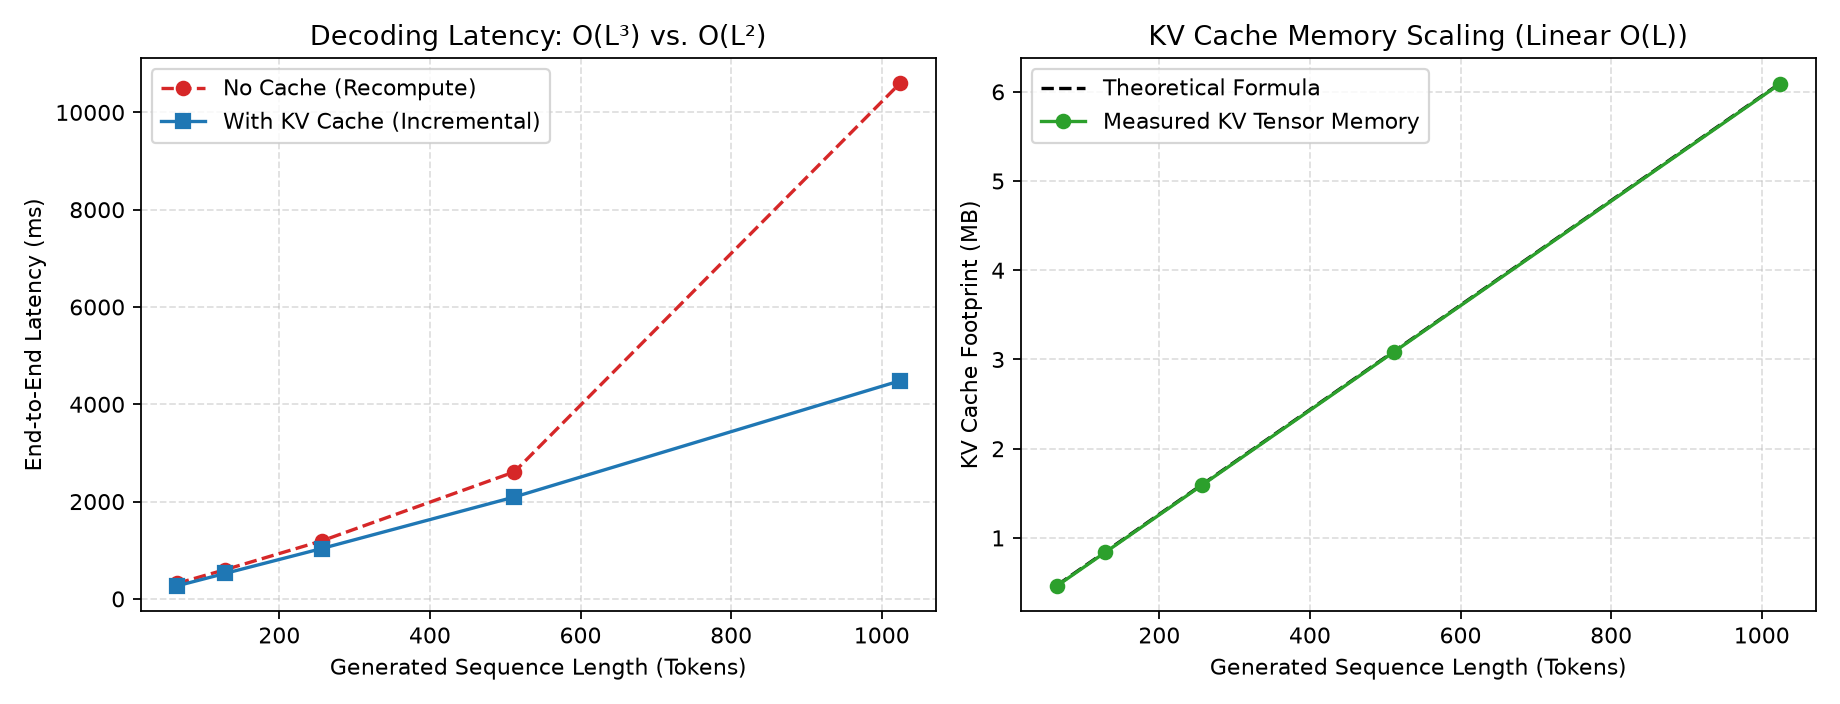
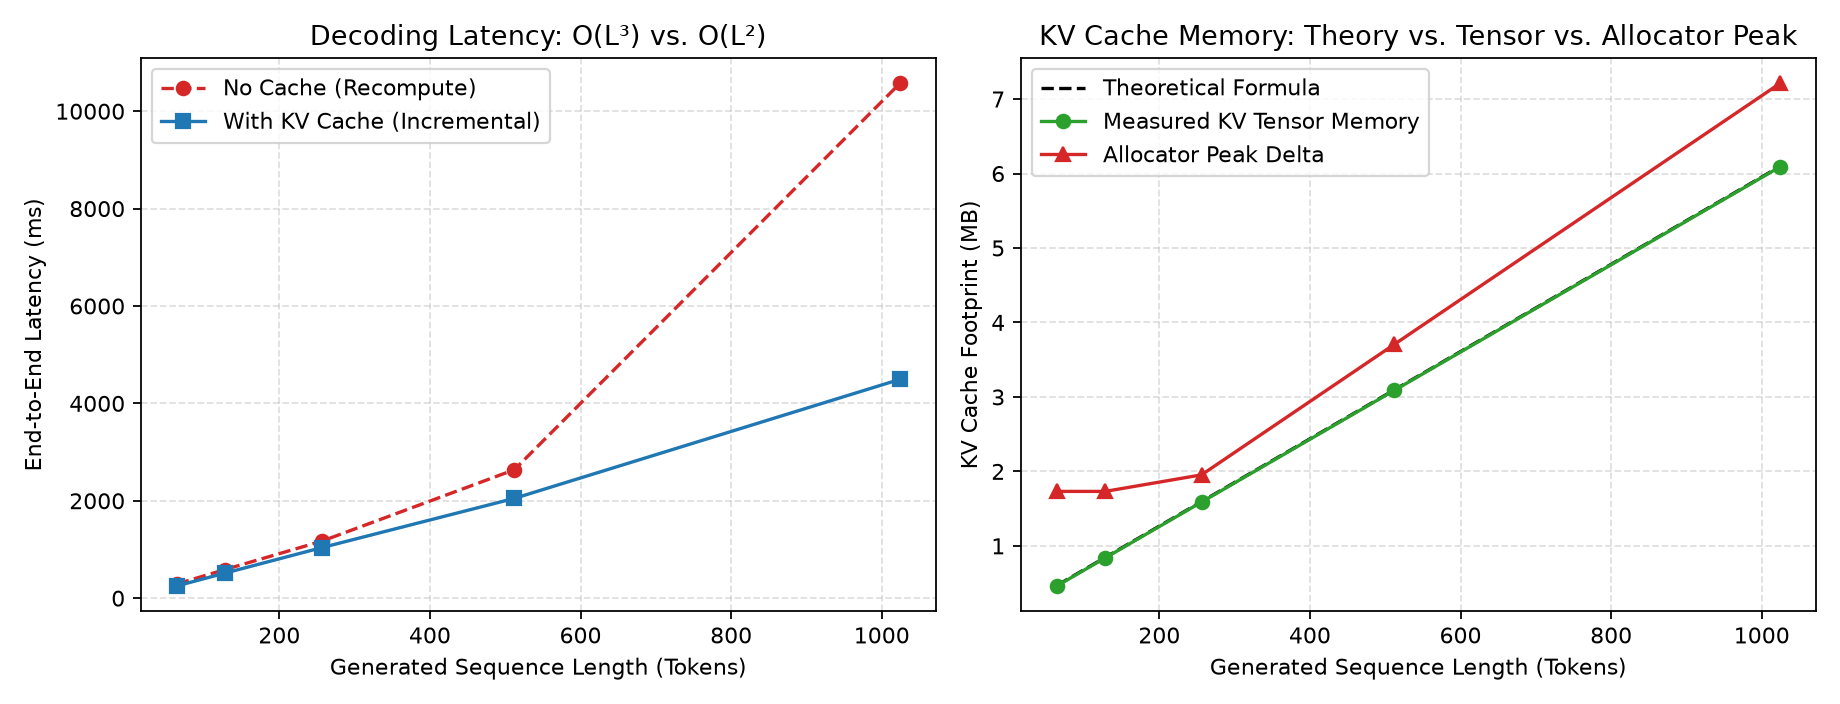
feat(profiling): 实测 KV Cache 峰值显存（max_memory_allocated）
- 每个序列长度前 empty_cache + reset_peak_memory_stats，扣除 67.8MB 基线
- 新增分配器峰值增量列与曲线：7.21MB @L=1024，约为张量的 1.18x
- 验证峰值增量符合 1+1/num_layers（仅当前层 cat 时新旧块共存）
- 释放 ckpt 引用，避免 fp32 权重副本污染显存基线

diff --git a/assignments/assignment1-basics/profile_kvcache.py b/assignments/assignment1-basics/profile_kvcache.py
@@ -38,6 +38,7 @@ def main() -> None:
         config["context_length"] = max(config.get("context_length", 1024), 1088)
         model = TransformerLM(**config, device=device, dtype=dtype)
         model.load_state_dict(ckpt["model_state_dict"])
+        del ckpt  # 释放 fp32 权重副本，避免污染后续显存基线
     else:
         config = dict(
             vocab_size=50257,
@@ -73,6 +74,8 @@ def main() -> None:
     for _ in range(3):
         _ = model.generate(prompt, max_new_tokens=16, use_cache=True)
     sync_device(device)
+    if device == "cuda":
+        print(f"  -> 权重与 prompt 基线占用: {torch.cuda.memory_allocated() / (1024**2):.1f} MB")
 
     print("\n[Step 2] 开始运行序列长度扩展 Benchmark...")
     for L in gen_lengths:
@@ -86,7 +89,11 @@ def main() -> None:
 
         # 测 KV Cache 增量模式 (O(L) 线性复杂度)
         if device == "cuda":
-            torch.cuda.reset_peak_memory_stats()
+            torch.cuda.synchronize()
+            torch.cuda.empty_cache()  # 清空缓存池，隔离上一个 L 留下的碎片
+            base_alloc_mb = torch.cuda.memory_allocated() / (1024**2)
+            base_reserved_mb = torch.cuda.memory_reserved() / (1024**2)
+            torch.cuda.reset_peak_memory_stats()  # 峰值计数器从当前水位重新起算
         sync_device(device)
         t0 = time.perf_counter()
         _, kv_cache = model.generate(
@@ -94,11 +101,18 @@ def main() -> None:
         )
         sync_device(device)
         cache_ms = (time.perf_counter() - t0) * 1000.0
+        if device == "cuda":
+            peak_alloc_mb = torch.cuda.max_memory_allocated() / (1024**2)
+            peak_reserved_mb = torch.cuda.max_memory_reserved() / (1024**2)
+            steady_alloc_mb = torch.cuda.memory_allocated() / (1024**2)
+        else:
+            base_alloc_mb = base_reserved_mb = peak_alloc_mb = peak_reserved_mb = steady_alloc_mb = 0.0
         cache_tps = L / (cache_ms / 1000.0)
         speedup = no_cache_ms / cache_ms
 
         total_seq = prompt_len + L
         measured_kv_mb = kv_cache.memory_bytes() / (1024**2)
+        del kv_cache  # 释放引用，避免上一个 L 的缓存污染下一轮的基线
         bytes_per_elem = 2 if dtype == torch.float16 else 4
         theory_kv_mb = theoretical_kv_cache_mb(
             batch_size=1,
@@ -119,6 +133,12 @@ def main() -> None:
                 speedup=speedup,
                 measured_kv_mb=measured_kv_mb,
                 theory_kv_mb=theory_kv_mb,
+                base_alloc_mb=base_alloc_mb,
+                peak_alloc_mb=peak_alloc_mb,
+                peak_reserved_mb=peak_reserved_mb,
+                peak_kv_delta_mb=peak_alloc_mb - base_alloc_mb,
+                peak_reserved_delta_mb=peak_reserved_mb - base_reserved_mb,
+                steady_kv_delta_mb=steady_alloc_mb - base_alloc_mb,
             )
         )
 
@@ -126,14 +146,16 @@ def main() -> None:
     print("\n### KV Cache 推理加速与显存剖析实验表\n")
     print(
         "| 生成长度 $L$ | 无缓存耗时 (ms) | KV Cache 耗时 (ms) | 无缓存吞吐 (tok/s) "
-        "| KV Cache 吞吐 (tok/s) | 加速比 | KV Cache 显存实测 / 理论 (MB) |"
+        "| KV Cache 吞吐 (tok/s) | 加速比 | 张量口径 / 理论 (MB) "
+        "| 分配器峰值增量 (MB) |"
     )
-    print("| :---: | :---: | :---: | :---: | :---: | :---: | :---: |")
+    print("| :---: | :---: | :---: | :---: | :---: | :---: | :---: | :---: |")
     for r in results:
         print(
             f"| {r['L']} | {r['no_cache_ms']:.1f} | {r['cache_ms']:.1f} "
             f"| {r['no_cache_tps']:.1f} | {r['cache_tps']:.1f} "
-            f"| **{r['speedup']:.2f}x** | {r['measured_kv_mb']:.2f} / {r['theory_kv_mb']:.2f} |"
+            f"| **{r['speedup']:.2f}x** | {r['measured_kv_mb']:.2f} / {r['theory_kv_mb']:.2f} "
+            f"| {r['peak_kv_delta_mb']:.2f} |"
         )
 
     # 绘制双子图
@@ -151,9 +173,10 @@ def main() -> None:
 
     ax2.plot(Ls, [r["theory_kv_mb"] for r in results], "k--", label="Theoretical Formula")
     ax2.plot(Ls, [r["measured_kv_mb"] for r in results], "o-", color="#2ca02c", label="Measured KV Tensor Memory")
+    ax2.plot(Ls, [r["peak_kv_delta_mb"] for r in results], "^-", color="#d62728", label="Allocator Peak Delta")
     ax2.set_xlabel("Generated Sequence Length (Tokens)")
     ax2.set_ylabel("KV Cache Footprint (MB)")
-    ax2.set_title("KV Cache Memory Scaling (Linear O(L))")
+    ax2.set_title("KV Cache Memory: Theory vs. Tensor vs. Allocator Peak")
     ax2.legend()
     ax2.grid(True, linestyle="--", alpha=0.4)
 

diff --git a/RUN_RESULTS.md b/RUN_RESULTS.md
@@ -1,4 +1,4 @@
-# 训练与 KV Cache 基准结果（2026-10-28 01:45）
+# 训练与 KV Cache 基准结果（2026-10-28 更新）
 
 ## 1. 训练（batch 8 + 梯度累积 2，等效 batch 16）
 
@@ -14,25 +14,41 @@
 
 Loss 采样：step1 10.83 → step25 5.76 → step50 4.67 → step100 3.72 → step200 3.15 → step300 3.08。
 
-## 2. KV Cache 基准
+## 2. KV Cache 基准（含真实峰值显存）
 
 一致性校验：`use_cache=False` 与 `use_cache=True` 的 64-token 贪心解码序列**完全一致（PASS）**。
 
-| 生成长度 L | 无缓存 (ms) | KV Cache (ms) | 无缓存吞吐 (tok/s) | Cache 吞吐 (tok/s) | 加速比 | KV 显存实测/理论 (MB) |
-|---:|---:|---:|---:|---:|---:|---:|
-| 64 | 317.5 | 267.5 | 201.6 | 239.3 | 1.19x | 0.46 / 0.47 |
-| 128 | 600.5 | 523.4 | 213.1 | 244.6 | 1.15x | 0.84 / 0.84 |
-| 256 | 1190.5 | 1033.9 | 215.0 | 247.6 | 1.15x | 1.59 / 1.59 |
-| 512 | 2609.7 | 2094.0 | 196.2 | 244.5 | 1.25x | 3.09 / 3.09 |
-| 1024 | 10595.0 | 4482.5 | 96.6 | 228.4 | **2.36x** | 6.09 / 6.09 |
+| 生成长度 L | 无缓存 (ms) | KV Cache (ms) | 无缓存吞吐 (tok/s) | Cache 吞吐 (tok/s) | 加速比 | 张量口径 / 理论 (MB) | 分配器峰值增量 (MB) |
+|---:|---:|---:|---:|---:|---:|---:|---:|
+| 64 | 291.2 | 252.4 | 219.8 | 253.6 | 1.15x | 0.46 / 0.47 | 1.73 |
+| 128 | 588.6 | 515.2 | 217.5 | 248.4 | 1.14x | 0.84 / 0.84 | 1.73 |
+| 256 | 1168.1 | 1036.3 | 219.2 | 247.0 | 1.13x | 1.59 / 1.59 | 1.95 |
+| 512 | 2637.0 | 2048.6 | 194.2 | 249.9 | 1.29x | 3.09 / 3.09 | 3.71 |
+| 1024 | 10570.1 | 4493.1 | 96.9 | 227.9 | **2.35x** | 6.09 / 6.09 | 7.21 |
 
-产物：`assets/kv_cache_benchmark.png`（1840×704，双子图）。
+### 测量口径
 
-## 3. 结果解读与注意点
+- **张量口径**：`KVCache.memory_bytes()`，按 `numel × element_size` 累加，与理论公式
+  `2 × layers × B × heads × d_head × T × bytes` 同源。
+- **分配器峰值增量**：每个 L 测前 `torch.cuda.empty_cache()` + `reset_peak_memory_stats()`，
+  测后读 `max_memory_allocated()` 并减去基线（权重 + prompt = 67.8 MB）。
+  这是设备上真实发生的同时占用峰值，不是把显存跑满。
+- **峰值增量 ≈ 张量 × (1 + 1/num_layers)**：`torch.cat` 扩容的瞬间，只有**当前层**同时持有
+  新旧两块，其余 5 层已换成新块。实测 7.21 / 6.09 = **1.18×**，与 1 + 1/6 ≈ 1.17 吻合，
+  而不是“整体翻倍”。
+- `max_memory_reserved()` 受分配器段粒度影响，多数长度下未触发新段（增量为 0），
+  因此不纳入表格；它衡量的是缓存池，不是 KV 本身。
 
-- 加速比在 L=1024 才明显（2.36x），短序列只有 1.15–1.25x。原因：`KVCache.update` 每步用 `torch.cat` 复制整段历史，单步开销被放大的同时，模型很小、kernel 启动开销占比高。这会在报告中被导师追问，建议在 README 里如实说明，或改为预分配缓冲区。
-- “KV 显存实测”仍是 `memory_bytes()` 的张量口径（按 numel 计算），与理论公式同源；**没有用 `torch.cuda.max_memory_allocated()` 测设备峰值**。审查报告里已列为 P0。
-- 本次未应用审查报告中的其他补丁（generate 越界保护、真实峰值显存测量、README / STUDY_GUIDE）。
+产物：`assets/kv_cache_benchmark.png`（双子图：左=延迟，右=理论 / 张量 / 分配器峰值三条曲线）。
+
+## 3. 结果解读
+
+- 加速比在 L=1024 才明显（2.35x），短序列只有 1.13–1.29x。原因：`KVCache.update` 每步用
+  `torch.cat` 复制整段历史（单步 O(T) 拷贝、全程 O(T²)），加上模型很小、kernel 启动开销占比高。
+  改为预分配缓冲区（`torch.empty(max_len)` + 切片写入）可进一步拉开差距。
+- KV 显存随长度线性增长，1024 时 6.09 MB，与理论公式逐点一致；即便算上 cat 的瞬时峰值也只有
+  7.21 MB，远不是显存压力来源。
+- 真正占显存的是权重（30.85M × 2 bytes ≈ 61.7 MB）与训练时的 logits（B×S×50257）。
 
 ## 4. 复现
 
@@ -43,7 +59,3 @@ uv run python profile_kvcache.py
 ```
 
 原始日志已复制到 `logs/train.log`、`logs/profile.log`。
-
----
-
-机器已按要求在结果写入后自动关机。
